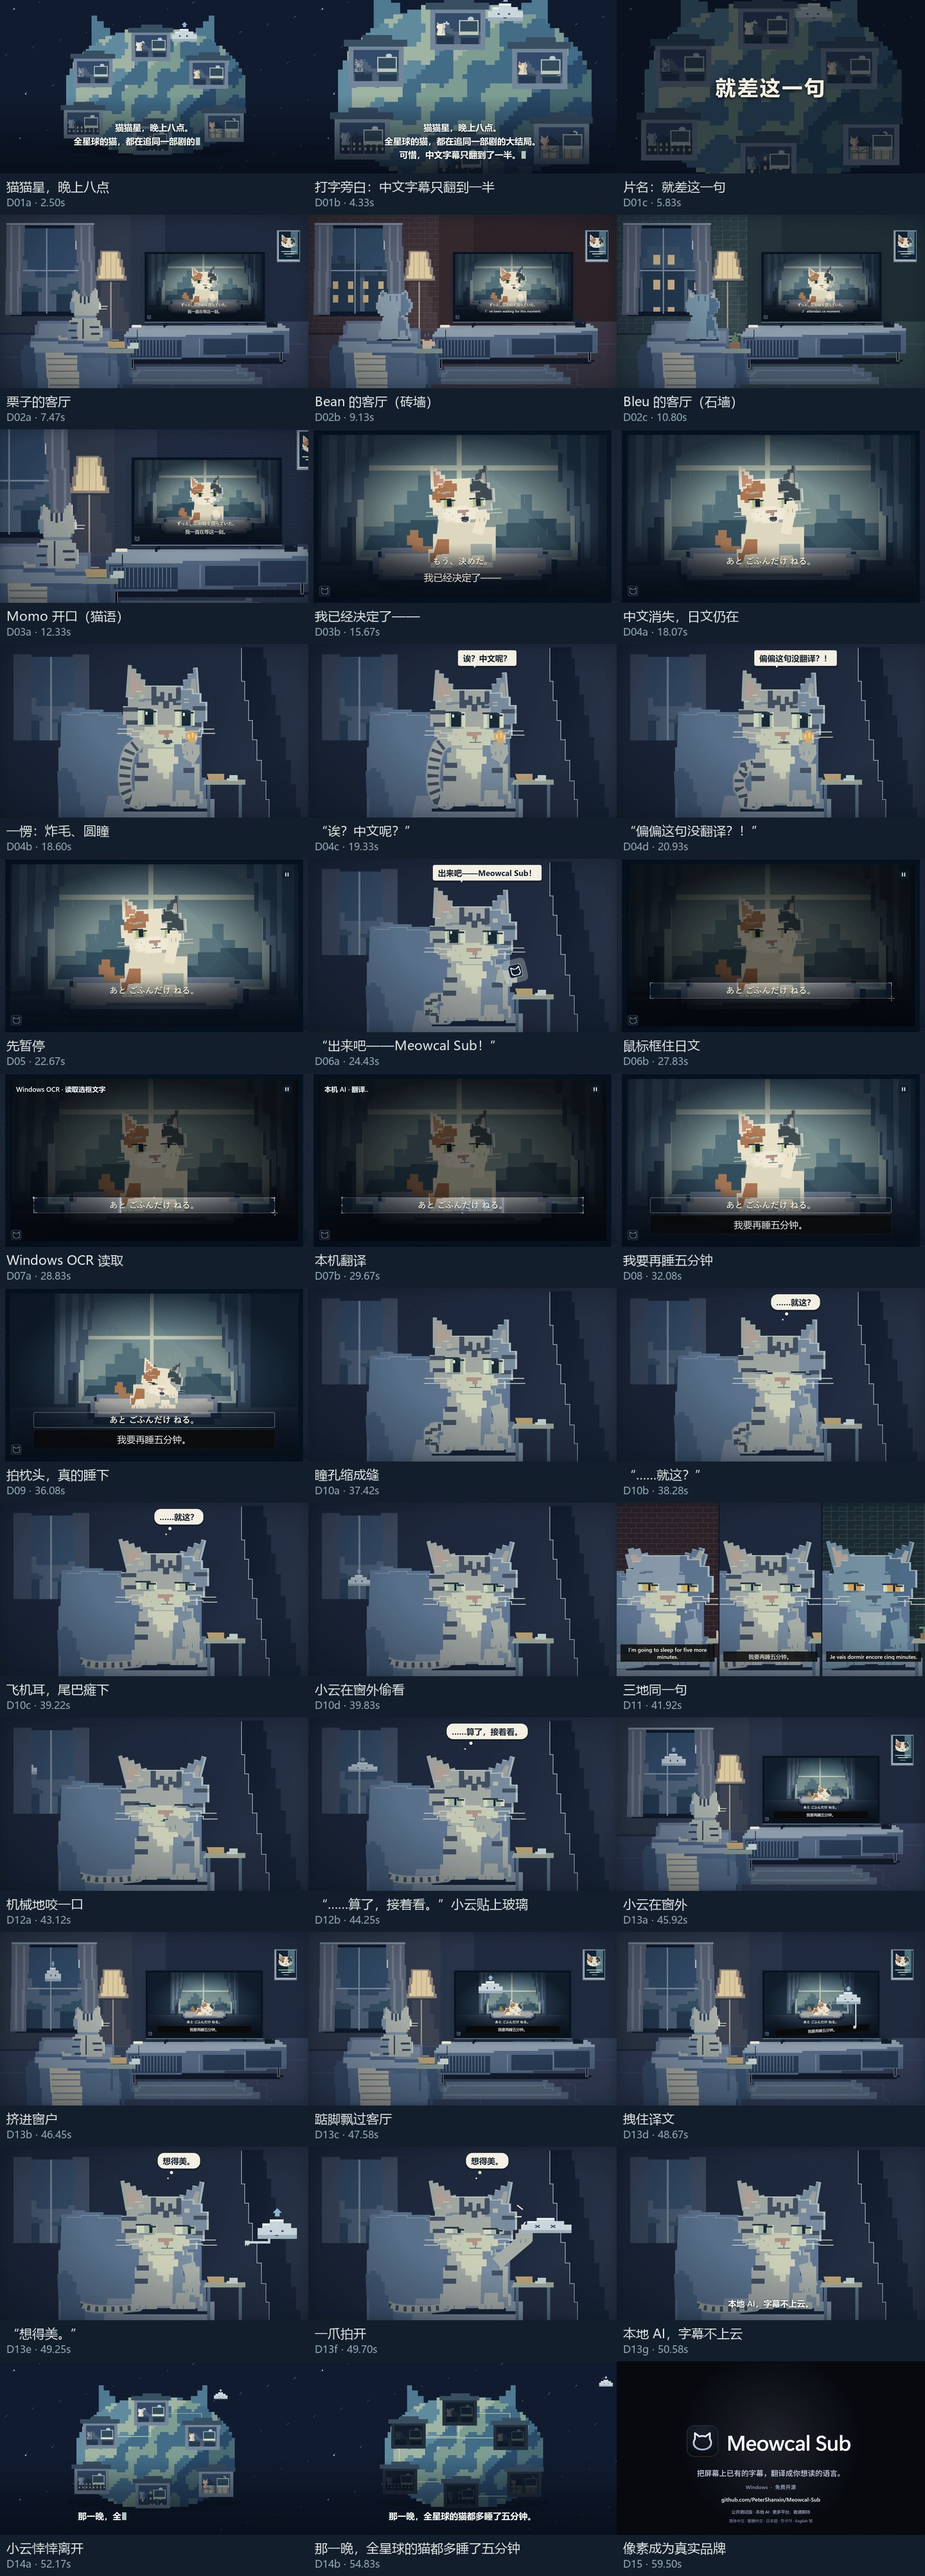
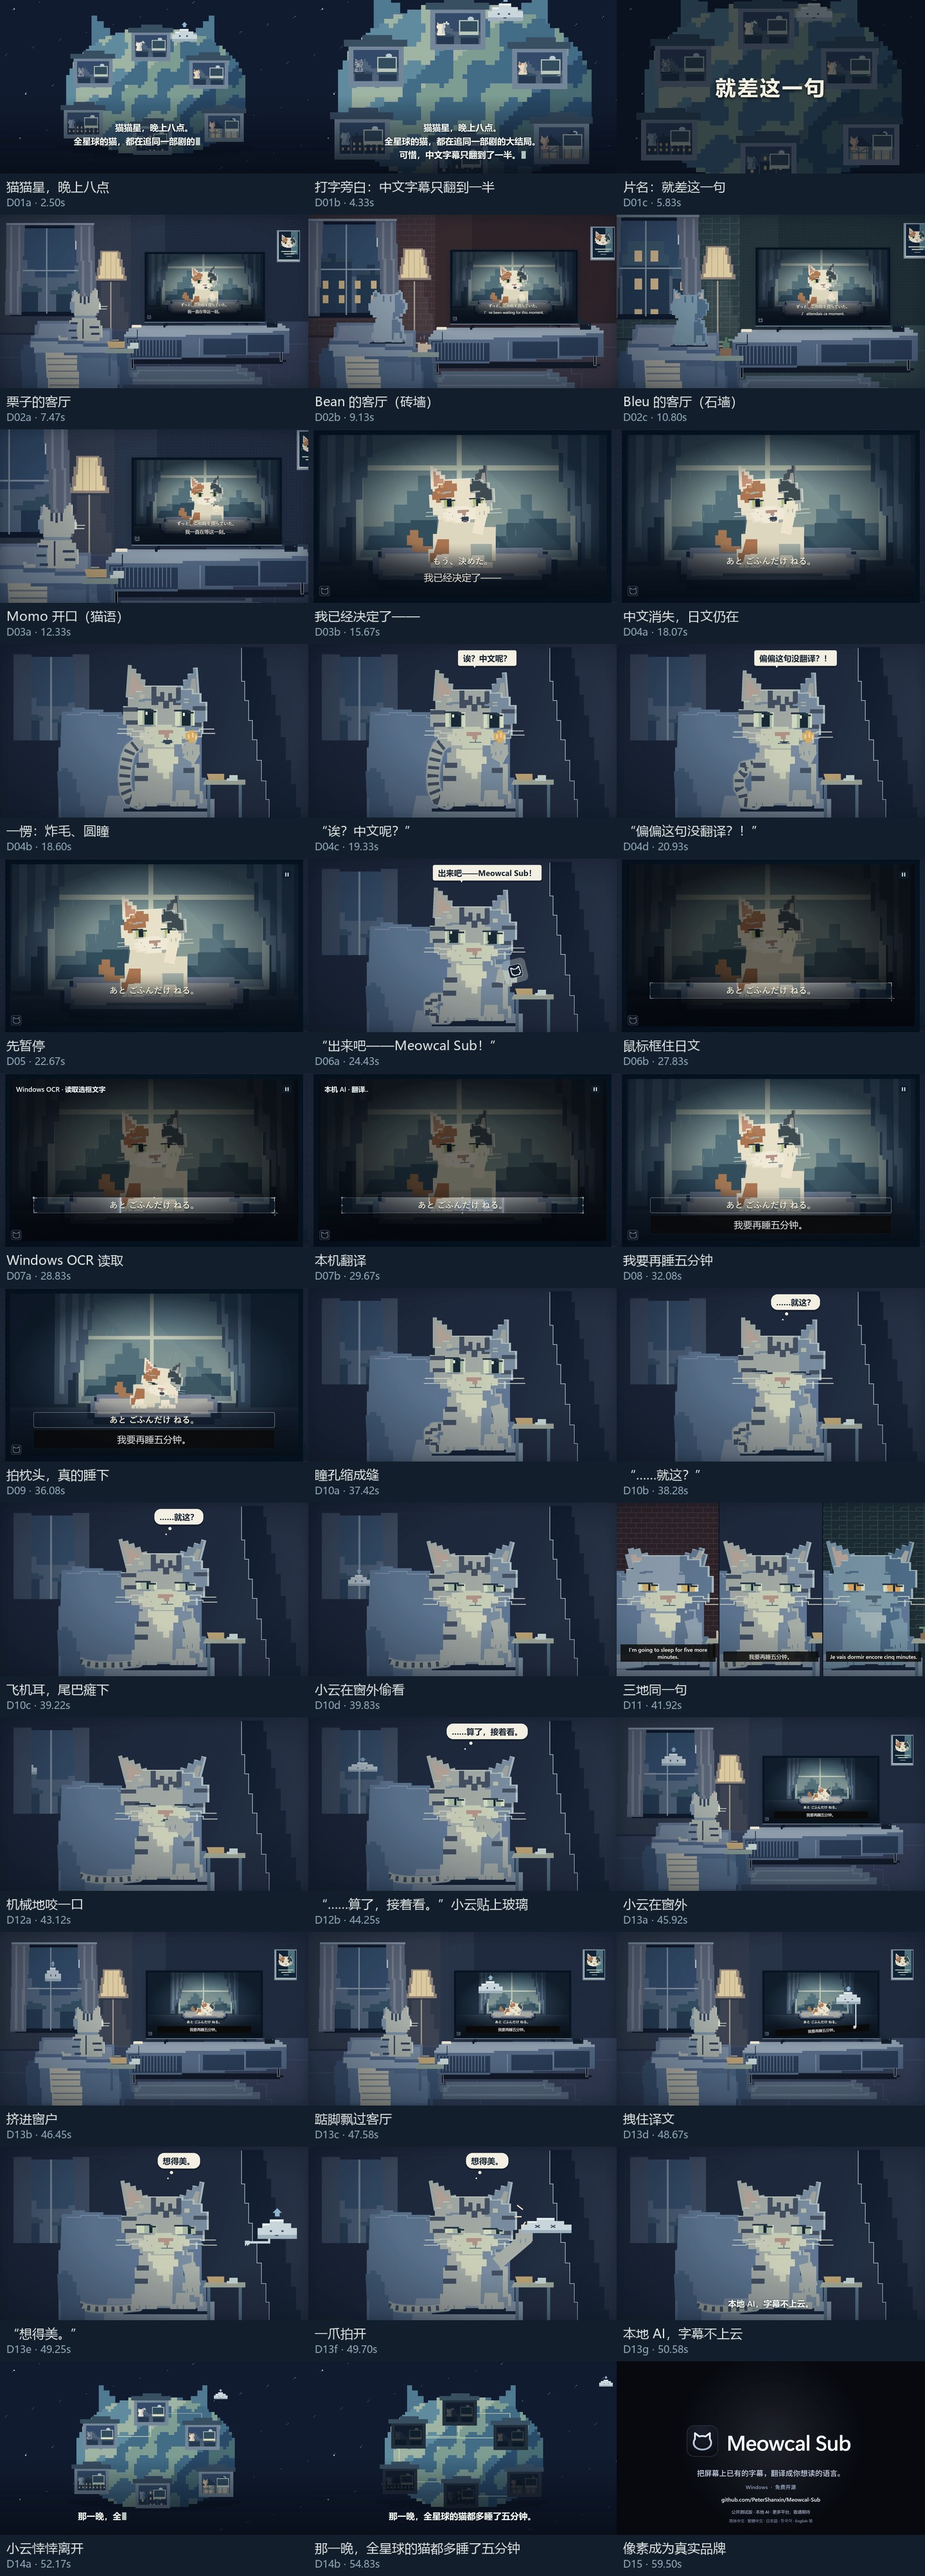
fix: smooth the cuts between identical rooms and into the split screen
The three viewers' rooms share one layout, so hard cuts between them read
as a skipped frame, and each room's eased push stopped before every cut.
The montage now pushes in at a constant rate and dissolves room to room,
ending in Chestnut's room at the build-up's zoom and episode frame (the
TV picture used to jump back there). The split screen opens and closes on
Chestnut's full-frame close-up with the side panels sliding in and out.

Changed region(s): [[0.3125, 0.0624, 1.0, 0.1559]]

diff --git a/cat-drama/src/drama-film/DramaFilm.tsx b/cat-drama/src/drama-film/DramaFilm.tsx
@@ -17,6 +17,9 @@ type Shot = {id: string; kind: string; from: number; duration: number};
 type Line = {line: keyof typeof COPY.zh.lines; at: number; show: number} & ({mode: 'say'; len: number} | {mode: 'think'});
 export type DramaProps = {cut: Cut; locale: Locale; sound?: boolean};
 
+// Zoom reached by the viewers montage, where the build-up's push picks up; frames per room dissolve.
+const MONTAGE_PUSH = .12, DISSOLVE = 16;
+
 const Super: React.FC<{text: string; portrait: boolean; opacity: number}> = ({text, portrait, opacity}) =>
   <div style={{position: 'absolute', left: 60, right: 60, bottom: portrait ? 470 : 70, textAlign: 'center', color: '#eef3ee',
     font: `600 ${portrait ? 56 : 52}px "Segoe UI","Microsoft YaHei",sans-serif`, textShadow: '0 3px 12px #050b14', opacity}}>{text}</div>;
@@ -98,13 +101,18 @@ const FilmShot: React.FC<{shot: Shot; cut: CutData; locale: Locale}> = ({shot, c
         {g >= C.title && <Title text={copy.title} f={g - C.title} portrait={p}/>}
       </AbsoluteFill>;
     }
+    // The three homes share one layout, so hard cuts between them read as a skip. The camera pushes
+    // in without stopping while each room dissolves into the next, ending in Chestnut's room where
+    // the build-up takes over at the same zoom and episode frame.
     case 'viewers': {
-      const block = Math.floor(f / 100), viewer = [0, 3, 4][Math.min(block, 2)];
-      return room(<Screen episode={80 + f} line={0} familiar target={Math.min(block, 2)} talk={talk}/>, .04 * ease(f % 100, 0, 100), viewer);
+      const zoom = MONTAGE_PUSH * f / shot.duration;
+      const home = (i: number) => room(<Screen episode={80 + f} line={0} familiar target={i % 3} portrait={p} talk={talk}/>, zoom, [0, 3, 4, 0][i]);
+      const block = Math.min(Math.floor(f / 100), 2), next = ease(f, 100 * (block + 1) - DISSOLVE, 100 * (block + 1));
+      return <>{home(block)}{next > 0 && <AbsoluteFill style={{opacity: next}}>{home(block + 1)}</AbsoluteFill>}</>;
     }
     case 'buildup': return <>
-      {room(<Screen episode={short ? 280 + f * 300 / shot.duration : 240 + f} line={!short && f < shot.duration * .44 ? 0 : 1} familiar portrait={p} talk={talk}/>,
-        short ? .5 + .5 * ease(f, 0, 180) : .12 + .88 * ease(f, 0, 240))}
+      {room(<Screen episode={short ? 300 + f * 300 / shot.duration : 380 + f * 220 / shot.duration} line={!short && f < shot.duration * .44 ? 0 : 1} familiar portrait={p} talk={talk}/>,
+        short ? .5 + .5 * ease(f, 0, 180) : MONTAGE_PUSH + (1 - MONTAGE_PUSH) * ease(f, 0, 240))}
       {'premise' in C && <Typewriter lines={[{text: copy.premise, at: C.premise}]} f={g} rate={copy.typeRate} out={C.premiseOut} portrait={p} top/>}
     </>;
     case 'loss': return g < C.reactionCut ? room(<Screen episode={600} portrait={p} talk={talk}/>) : <ReactionView W={W} H={H} f={g - C.reactionCut} performance="lost" talk={chat}/>;
@@ -116,7 +124,7 @@ const FilmShot: React.FC<{shot: Shot; cut: CutData; locale: Locale}> = ({shot, c
     case 'deadpan': return <ReactionView W={W} H={H} f={f} performance="deadpan" overlay={'cloudPeek' in C &&
       <CloudOutside p={p} x={p ? 30 : 62} y={mix(p ? 150 : 158, p ? 100 : 112, ease(g, C.cloudPeek, C.cloudPeek + 25))} s={p ? .45 : .5} f={f} mood="curious"/>}/>;
     // Bean and Bleu catch up mid-deflation, a beat apart; Chestnut has already given up.
-    case 'languages': return <ReactionTriptych W={W} H={H} panels={[[3, 96 + f, translations[1]], [0, 180 + f, translations[0]], [4, 82 + f, translations[2]]]}/>;
+    case 'languages': return <ReactionTriptych W={W} H={H} f={f} duration={shot.duration} panels={[[3, 96 + f, translations[1]], [0, 180 + f, translations[0]], [4, 82 + f, translations[2]]]}/>;
     case 'snack': return <ReactionView W={W} H={H} f={f} performance="snack" overlay={'cloudGlass' in C &&
       <CloudOutside p={p} x={mix(p ? -10 : 20, p ? 32 : 62, ease(g, C.cloudGlass, C.cloudGlass + 18))} y={p ? 60 : 70} s={p ? .5 : .55} f={f} mood="grab" press={ease(g, C.cloudGlass + 20, C.cloudGlass + 28)}/>}/>;
     case 'privacy': {

diff --git a/cat-drama/src/drama-film/Room.tsx b/cat-drama/src/drama-film/Room.tsx
@@ -163,21 +163,38 @@ const FACE = {landscape: [1032, 540], portrait: [540, 939]};
 // Portrait rows keep this much room under the chin for the subtitle.
 const PLATE_ROOM = 70;
 
+const GAP = 6, SLIDE = 14;
+
 /**
  * Three homes, one anticlimax: side by side (stacked when portrait), each viewer half-lidded
- * over the same line in its own language. `panels` are [viewer, performance frame, line].
+ * over the same line in its own language. The shot opens and closes on Chestnut's full-frame
+ * close-up: the other two panels slide in from the edges and back out, so the cuts on either
+ * side join the same framing. `panels` are [viewer, performance frame, line]; Chestnut is the middle one.
  */
-export const ReactionTriptych: React.FC<{W: number; H: number; panels: [number, number, string][]}> = ({W, H, panels}) => {
+export const ReactionTriptych: React.FC<{W: number; H: number; f: number; duration: number; panels: [number, number, string][]}> = ({W, H, f, duration, panels}) => {
   const p = H > W, [cx, cy] = FACE[p ? 'portrait' : 'landscape'];
   const pw = p ? W : W / 3, ph = p ? H / 3 : H;
+  const open = ease(f, 0, SLIDE) * (1 - ease(f, duration - SLIDE, duration));
+  const plate = (line: string) => <div style={{position: 'absolute', left: 24, right: 24, bottom: p ? 14 : 90, padding: p ? '6px 16px' : '10px 16px', textAlign: 'center',
+    background: '#0b0b0bd9', color: '#f6f3e8', font: `500 ${p ? 36 : 34}px "Segoe UI","Microsoft YaHei",sans-serif`, lineHeight: 1.3}}>{line}</div>;
+  // The middle panel's face centre in the frame once the panels are in.
+  const [mx, my] = p ? [W / 2, ph + (ph - PLATE_ROOM) / 2] : [pw * 1.5, H / 2];
+  const [, mf, mline] = panels[1];
   return <AbsoluteFill style={{background: '#0a131f'}}>
-    {panels.map(([viewer, f, line], i) => <div key={viewer} style={{position: 'absolute', overflow: 'hidden', left: p ? 0 : i * pw, top: p ? i * ph : 0,
-      width: pw - (!p && i < 2 ? 6 : 0), height: ph - (p && i < 2 ? 6 : 0)}}>
-      <div style={{position: 'absolute', width: W, height: H, left: pw / 2 - cx, top: p ? (ph - PLATE_ROOM) / 2 - cy : 0}}>
-        <ReactionView W={W} H={H} f={f} performance="deadpan" viewer={viewer}/>
-      </div>
-      <div style={{position: 'absolute', left: 24, right: 24, bottom: p ? 14 : 90, padding: p ? '6px 16px' : '10px 16px', textAlign: 'center', background: '#0b0b0bd9',
-        color: '#f6f3e8', font: `500 ${p ? 36 : 34}px "Segoe UI","Microsoft YaHei",sans-serif`, lineHeight: 1.3}}>{line}</div>
-    </div>)}
+    <div style={{position: 'absolute', width: W, height: H, left: p ? 0 : (mx - cx) * open, top: p ? (my - cy) * open : 0}}>
+      <ReactionView W={W} H={H} f={mf} performance="deadpan" viewer={panels[1][0]}/>
+    </div>
+    <div style={{position: 'absolute', left: p ? 0 : pw, top: p ? ph : 0, width: pw, height: ph, opacity: open}}>{plate(mline)}</div>
+    {[0, 2].map(i => {
+      const [viewer, pf, line] = panels[i], out = (i ? 1 : -1) * (1 - open);
+      return <div key={viewer} style={{position: 'absolute', overflow: 'hidden', background: '#0a131f', width: pw, height: ph,
+        left: p ? 0 : i * pw + out * pw, top: p ? i * ph + out * ph : 0}}>
+        <div style={{position: 'absolute', width: W, height: H, left: pw / 2 - cx, top: p ? (ph - PLATE_ROOM) / 2 - cy : 0}}>
+          <ReactionView W={W} H={H} f={pf} performance="deadpan" viewer={viewer}/>
+        </div>
+        {plate(line)}
+        <div style={{position: 'absolute', background: '#0a131f', ...(p ? {left: 0, right: 0, height: GAP, [i ? 'top' : 'bottom']: 0} : {top: 0, bottom: 0, width: GAP, [i ? 'left' : 'right']: 0})}}/>
+      </div>;
+    })}
   </AbsoluteFill>;
 };

diff --git a/cat-drama/DIRECTOR_SCRIPT.md b/cat-drama/DIRECTOR_SCRIPT.md
@@ -81,7 +81,7 @@
 | 时间 | 镜头与表演 | 声音落点 |
 | --- | --- | --- |
 | 00:00–00:07 | 太空推近猫猫地球。几扇窗同时亮着；小云飘到一扇窗前，盯着屏幕眯起眼。屏幕下方逐字打出三行旁白：「猫猫星，晚上八点。」「全星球的猫，都在追同一部剧的大结局。」「可惜，中文字幕只翻到了一半。」随后星球压暗，片名「就差这一句」。 | 拨弦三音动机；远处每扇窗都在放同一句猫语，叠成一片低语。打字时轻轻的按键声；片名落在一个低音 E 上，竖琴上行。 |
-| 00:07–00:12 | 三间客厅，各地观众看同一位主演。 | 电视腔：Momo 的第一句猫语跨过剪辑，从一家的电视接到另一家；剧内弦乐垫底，雨声。 |
+| 00:07–00:12 | 三间客厅，各地观众看同一位主演。三间屋子布局相同，镜头一路匀速推近，房间之间溶解过渡，最后溶回栗子的客厅接上推镜。 | 电视腔：Momo 的第一句猫语跨过剪辑，从一家的电视接到另一家；剧内弦乐垫底，雨声。 |
 | 00:12–00:18 | 栗子肩后推向电视，镜头进入画面。Momo 开口：「我已经决定了——」。 | 声音随镜头从电视喇叭打开成全频。Em–C–Am–B 逐级上推，定音鼓滚奏和镲片渐强。 |
 | 00:18–00:22 | 定音鼓落下，日文换成全假名的下一句，中文那一行消失。Momo 念出关键一句。切栗子：一愣、炸毛、圆瞳，脱口而出「诶？中文呢？」；眼睛寻找译文，快速眨两下，「偏偏这句没翻译？！」。 | 属和弦重击后转成颤音悬着。切到栗子的瞬间，声音退回电视腔；栗子每句吐槽都是一声短短的猫叫。 |
 | 00:22–00:24 | 暂停的电视。日文仍在，空出的中文位置清楚可见。 | 空格键一响，电视里所有声音硬切，只剩房间底噪。 |
@@ -90,7 +90,7 @@
 | 00:30–00:33 | 同宽不透明底板落在日文下面：「我要再睡五分钟。」 | 马林巴三和弦与竖琴琶音，一声轻落地，随后留白。 |
 | 00:33–00:37 | 恢复播放。Momo 郑重拍枕头两下，打哈欠，趴下闭眼。 | 悬着的和弦重新涌起、定音鼓滚奏，落点只是两下枕头；乐队停住，只剩一把竖琴。哈欠，然后呼噜声开始。 |
 | 00:37–00:40 | 栗子瞪眼空白 → 瞳孔缩成缝 → 慢眨 → 心里一句「……就这？」→ 半眯 → 飞机耳、胡须下垂 → 尾巴瘫下。最后，小云在它身后的窗外冒头。 | 钟表滴答、电视里的呼噜；心里话没有声音；尾巴落下一声闷响；窗外一口轻风。 |
-| 00:40–00:43 | 三分屏：Bean、栗子、Bleu 并排半眯，下面分别是英文、中文、法文的同一句译文。 | 呼噜在电视里继续。 |
+| 00:40–00:43 | 三分屏：Bean、Bleu 从两侧滑进栗子的特写，三只猫并排半眯，下面分别是英文、中文、法文的同一句译文；最后两侧滑出，回到栗子的特写。 | 呼噜在电视里继续。 |
 | 00:43–00:46 | 栗子把零食送到嘴边，机械地咬一口，心里「……算了，接着看。」身后窗外，小云整张脸压在玻璃上。 | 一声干脆的咔嚓，几下咀嚼；玻璃上一声轻吱。 |
 | 00:46–00:51 | 远景：小云贴在窗外，从窗缝挤进来，踮脚一跳一跳飘过客厅，伸手拽住译文底板。切栗子：头不转，眼珠斜过去，心里「想得美。」，一爪拍飞。「本地 AI，字幕不上云。」 | 挤进来的橡皮吱声，踮脚的半音拨弦一路往上爬，拽的时候一声拉长的吱；拍打、噗的一声。 |
 | 00:51–00:56 | 回到猫猫地球，窗与窗之间连起线；小云悻悻飘走。逐字打出「那一晚，全星球的猫都多睡了五分钟。」，各家的灯一盏盏熄灭。 | 片子自己的弦乐回来；打字声；每熄一盏灯落一个下行的钟琴音。 |

diff --git a/cat-drama/STORYBOARD.md b/cat-drama/STORYBOARD.md
@@ -9,7 +9,7 @@
 | 镜头 | 时间 | 内容 |
 | --- | --- | --- |
 | D01 | 0–6.7s | 打字旁白：猫猫星，晚上八点；全星球在追同一部剧；中文字幕只翻到一半。片名 |
-| D02 | 6.7–11.7s | 三间客厅：栗子、Bean（砖墙）、Bleu（石墙） |
+| D02 | 6.7–11.7s | 三间客厅：栗子、Bean（砖墙）、Bleu（石墙），一路推近，溶解过渡 |
 | D03 | 11.7–17.7s | Momo 开口，我已经决定了—— |
 | D04 | 17.7–21.7s | 中文消失；一愣、炸毛：“诶？中文呢？”“偏偏这句没翻译？！” |
 | D05 | 21.7–23.7s | 先暂停 |
@@ -18,7 +18,7 @@
 | D08 | 30.1–33.1s | 我要再睡五分钟 |
 | D09 | 33.1–37.1s | 拍枕头、哈欠，真的睡下 |
 | D10 | 37.1–40.1s | 瞳孔缩成缝 → 慢眨 →“……就这？”→ 飞机耳，尾巴瘫下；小云在窗外冒头 |
-| D11 | 40.1–42.6s | 三分屏：Bean、栗子、Bleu，同一句英文、中文、法文 |
+| D11 | 40.1–42.6s | 三分屏：Bean、Bleu 从两侧滑入，同一句英文、中文、法文 |
 | D12 | 42.6–45.6s | 机械地咬一口：“……算了，接着看。”小云贴上玻璃 |
 | D13 | 45.6–51.2s | 小云挤进窗户、踮脚过屋、拽译文；“想得美。”一爪拍开 |
 | D14 | 51.2–55.5s | 小云飘走；那一晚，全星球的猫都多睡了五分钟，灯一盏盏熄灭 |
